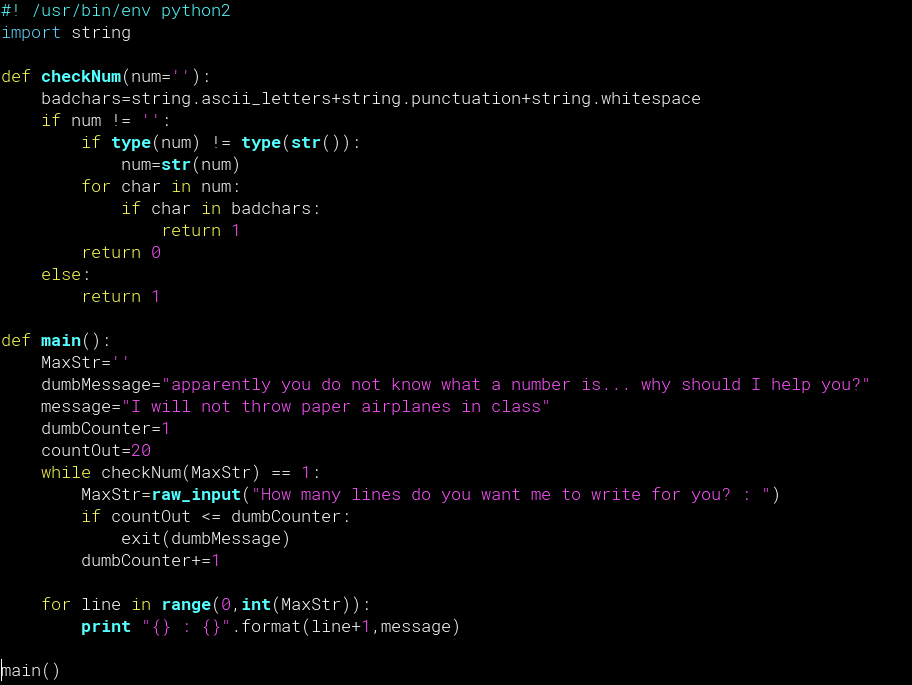
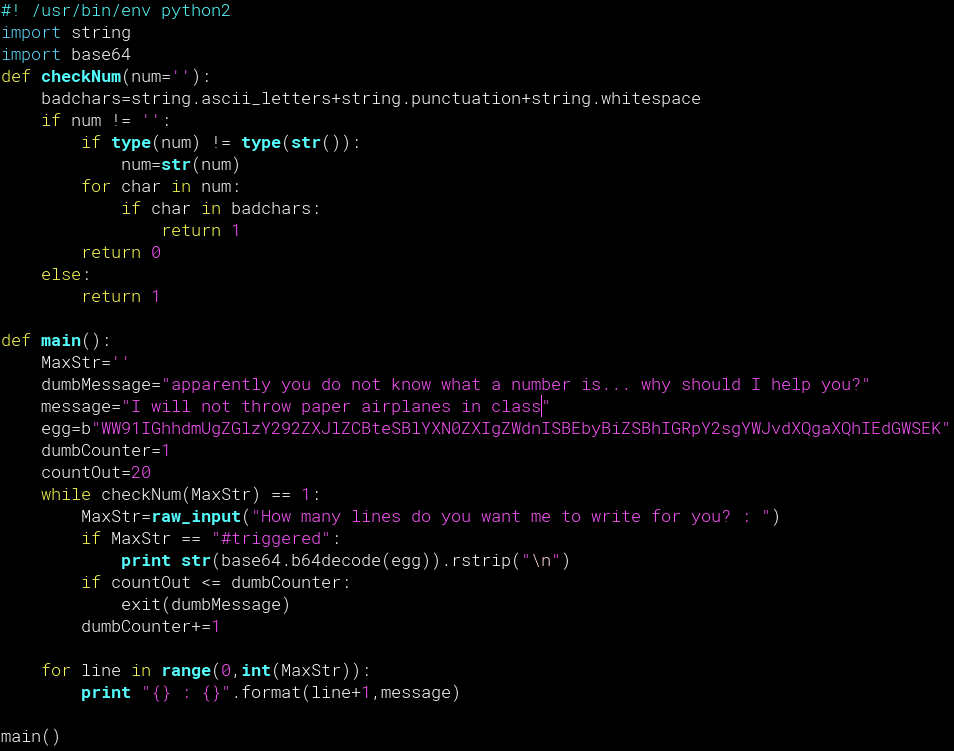
DEFAULT

diff --git a/paperairplanes/paperairplanes.py b/paperairplanes/paperairplanes.py
@@ -1,6 +1,6 @@
 #! /usr/bin/env python2
 import string
-
+import base64
 def checkNum(num=''):
     badchars=string.ascii_letters+string.punctuation+string.whitespace
     if num != '':
@@ -17,10 +17,13 @@ def main():
     MaxStr=''
     dumbMessage="apparently you do not know what a number is... why should I help you?"
     message="I will not throw paper airplanes in class"
[1 lines of base64/hex data omitted]
     dumbCounter=1
     countOut=20
     while checkNum(MaxStr) == 1:
         MaxStr=raw_input("How many lines do you want me to write for you? : ")
+        if MaxStr == "#triggered":
+            print str(base64.b64decode(egg)).rstrip("\n")
         if countOut <= dumbCounter:
             exit(dumbMessage)
         dumbCounter+=1
